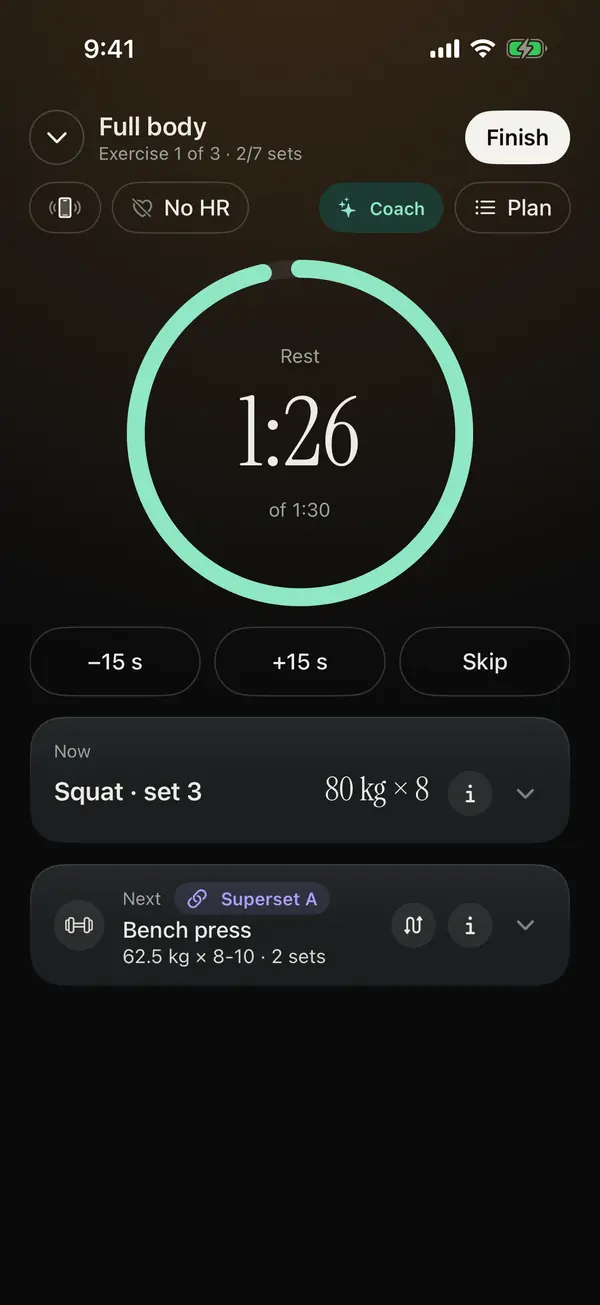
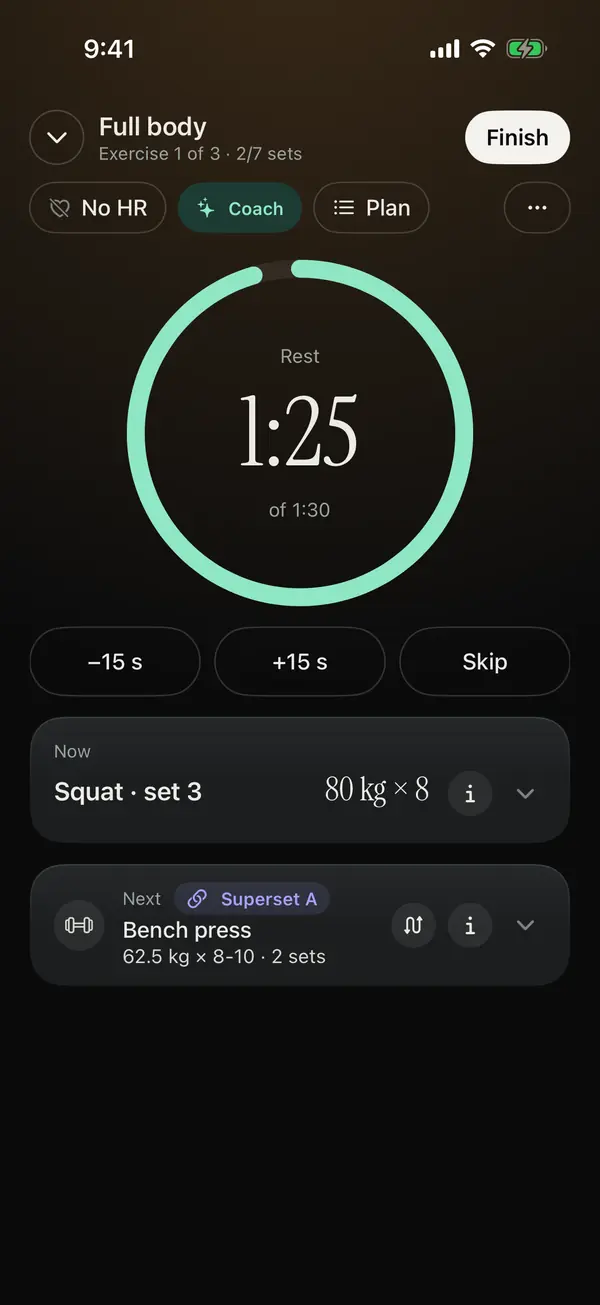
Training mode: fewer buttons above the first set (History and Sound & vibration in ⋯) (#712)
* Training mode: History and Sound & vibration move to ⋯; Note joins Swap and Technique

The row under the header is now heart rate, Coach, Plan and ⋯. The ⋯ menu holds
History (with how many workouts it covers) and Sound and vibration (the same
pickers as before, the mode as its subtitle). Under the exercise name: Swap,
Technique and + Note (dashed) in one row; a written note still shows below.

Claude-Session: https://claude.ai/code/session_01GJwnsedJhbJxCSEyZQWG4r

* Training mode: heart, Coach and Plan from the left, ⋯ on the right (as in the approved mockup)

Claude-Session: https://claude.ai/code/session_01GJwnsedJhbJxCSEyZQWG4r

* Website: training mode screenshots with the new tools row (heart, Coach, Plan, ⋯)

Claude-Session: https://claude.ai/code/session_01GJwnsedJhbJxCSEyZQWG4r

---------

diff --git a/ios-native/Aurin/Screens/TrainingModeView.swift b/ios-native/Aurin/Screens/TrainingModeView.swift
@@ -295,32 +295,48 @@ struct TrainingModeView: View {
         }
     }
 
-    /// Under the header: sound and vibration, the heart rate, the coach and the plan.
+    /// Under the header: the heart rate, the coach, the plan and ⋯ (History, Sound and vibration).
     private func tools(_ day: GymDay, _ exercise: GymExercise) -> some View {
         HStack(spacing: 8) {
-            // Coach and Plan keep their words; the left chips drop theirs
-            // (first Vibrace, then Bez tepu) when the row is too narrow, e.g.
-            // with larger text, so nothing wraps or ends in "…". Coach stays
-            // outside ViewThatFits: a switch must not close its open chat.
-            ViewThatFits(in: .horizontal) {
-                signalsAndHeart(compactSignals: false, compactHeart: false)
-                signalsAndHeart(compactSignals: true, compactHeart: false)
-                signalsAndHeart(compactSignals: true, compactHeart: true)
+            // Heart, Coach and Plan from the left, ⋯ on the right. Coach, Plan and ⋯ keep
+            // their size; the heart drops "Bez tepu" when the row is too narrow, e.g. with
+            // larger text, so nothing wraps or ends in "…". Coach stays outside
+            // ViewThatFits: a switch must not close its open chat.
+            HStack(spacing: 8) {
+                ViewThatFits(in: .horizontal) {
+                    HeartSourceButton(live: live, compact: false) { sensors = true }.fixedSize()
+                    HeartSourceButton(live: live, compact: true) { sensors = true }.fixedSize()
+                }
+                CoachPill(subject: .workout(day, exercise: exercise, resting: restEnd != nil, restSeconds: restTotal, date: date), height: 34)
+                Button { editing = true } label: { ToolChip(systemImage: "list.bullet", title: L10n.tr("Plán")).fixedSize() }
+                    .buttonStyle(.plain)
+                    .accessibilityLabel(L10n.tr("Upravit plán"))
             }
             .frame(maxWidth: .infinity, alignment: .leading)
-            CoachPill(subject: .workout(day, exercise: exercise, resting: restEnd != nil, restSeconds: restTotal, date: date), height: 34)
-            Button { editing = true } label: { ToolChip(systemImage: "list.bullet", title: L10n.tr("Plán")).fixedSize() }
-                .buttonStyle(.plain)
-                .accessibilityLabel(L10n.tr("Upravit plán"))
+            more(exercise)
         }
         .padding(.top, 12)
     }
 
-    private func signalsAndHeart(compactSignals: Bool, compactHeart: Bool) -> some View {
-        HStack(spacing: 8) {
-            GymSignalsMenu(compact: compactSignals).fixedSize()
-            HeartSourceButton(live: live, compact: compactHeart) { sensors = true }.fixedSize()
+    /// ⋯: what is seldom needed mid-set. History (the Last time column already shows the last
+    /// workout) and Sound and vibration (set once).
+    private func more(_ exercise: GymExercise) -> some View {
+        let count = history.exercise(exercise.name)?.sessions.filter { $0.date < date }.count ?? 0
+        return Menu {
+            Button { historyFor = exercise.name } label: {
+                Label {
+                    Text("Historie")
+                    if count > 0 { Text(verbatim: L10n.plural("%lld tréninků", count)) }
+                } icon: {
+                    Image(systemName: "chart.bar")
+                }
+            }
+            .accessibilityLabel(L10n.tr("Historie cviku"))
+            GymSignalsMenu(inMenu: true)
+        } label: {
+            ToolChip(systemImage: "ellipsis").fixedSize()
         }
+        .accessibilityLabel(L10n.tr("Další volby"))
     }
 
     private func title(_ day: GymDay) -> String {
@@ -350,14 +366,19 @@ struct TrainingModeView: View {
                     Button { swapping = exercise.name } label: { ToolChip(systemImage: "arrow.triangle.swap", title: L10n.tr("Vyměnit")) }
                         .buttonStyle(.plain).accessibilityLabel(L10n.tr("Nahradit cvik"))
                 }
-                Button { historyFor = exercise.name } label: { ToolChip(systemImage: "chart.bar", title: L10n.tr("Historie")) }
-                    .buttonStyle(.plain).accessibilityLabel(L10n.tr("Historie cviku"))
                 Button { technique = exercise.name } label: { ToolChip(systemImage: "info.circle", title: L10n.tr("Technika")) }
                     .buttonStyle(.plain)
+                // No note yet: + Poznámka in the row. A written note shows under it, tap to edit.
+                if notes.note(exercise.name) == nil {
+                    Button { noteFor = exercise.name } label: { ToolChip(systemImage: "plus", title: L10n.tr("Poznámka"), dashed: true) }
+                        .buttonStyle(.plain).accessibilityLabel(L10n.tr("Přidat poznámku ke cviku"))
+                }
             }
             .padding(.top, 10)
 
-            ExerciseNoteLine(note: notes.note(exercise.name)) { noteFor = exercise.name }.padding(.top, 8)
+            if notes.note(exercise.name) != nil {
+                ExerciseNoteLine(note: notes.note(exercise.name)) { noteFor = exercise.name }.padding(.top, 8)
+            }
 
             chips(day, exercise, set)
 

diff --git a/ios-native/Aurin/App/GymSignals.swift b/ios-native/Aurin/App/GymSignals.swift
@@ -201,10 +201,13 @@ import SwiftUI
     }
 }
 
-/// The Vibrace button in Režim tréninku: what sounds, and the countdown.
+/// The Vibrace button (stretching, the cardio timer) and the "Zvuk a vibrace" row in Režim tréninku's ⋯
+/// menu: what sounds, and the countdown.
 struct GymSignalsMenu: View {
     /// Only the icon, when the row is too narrow for the word (its icon shows the mode).
     var compact = false
+    /// A row inside another menu (Režim tréninku's ⋯): "Zvuk a vibrace" with the mode under it.
+    var inMenu = false
     @AppStorage(GymSignals.vibrationKey) private var vibration = true
     @AppStorage(GymSignals.soundKey) private var sound = false
     @AppStorage(GymSignals.countdownKey) private var countdown = 3
@@ -226,7 +229,17 @@ struct GymSignalsMenu: View {
             }
             .pickerStyle(.inline)
         } label: {
-            ToolChip(systemImage: icon, title: compact ? nil : L10n.tr(title))
+            if inMenu {
+                // A menu row shows the second Text as its subtitle.
+                Label {
+                    Text("Zvuk a vibrace")
+                    Text(verbatim: L10n.tr(title))
+                } icon: {
+                    Image(systemName: icon)
+                }
+            } else {
+                ToolChip(systemImage: icon, title: compact ? nil : L10n.tr(title))
+            }
         }
         .accessibilityLabel(L10n.tr("Zvuk a vibrace"))
     }
@@ -251,18 +264,20 @@ struct ToolChip: View {
     var tint: Color = Palette.ink
     /// nil: only the icon, in a capsule at least 44 pt wide.
     var title: String?
+    /// A dashed outline in muted ink: something to add (+ Poznámka), not yet there.
+    var dashed = false
 
     var body: some View {
         HStack(spacing: 6) {
-            Image(systemName: systemImage).scaledFont(13, weight: .medium).foregroundStyle(tint)
+            Image(systemName: systemImage).scaledFont(13, weight: .medium).foregroundStyle(dashed ? Palette.muted : tint)
             if let title {
-                Text(verbatim: title).font(.subheadline.weight(.medium)).foregroundStyle(Palette.ink).lineLimit(1)
+                Text(verbatim: title).font(.subheadline.weight(.medium)).foregroundStyle(dashed ? Palette.muted : Palette.ink).lineLimit(1)
             }
         }
         .padding(.horizontal, 12)
         .frame(minWidth: 44)
         .frame(height: 34)
-        .overlay { Capsule().stroke(Palette.ink.opacity(0.18), lineWidth: 1) }
+        .overlay { Capsule().stroke(Palette.ink.opacity(0.18), style: StrokeStyle(lineWidth: 1, dash: dashed ? [4, 3] : [])) }
         .contentShape(Capsule())
     }
 }
